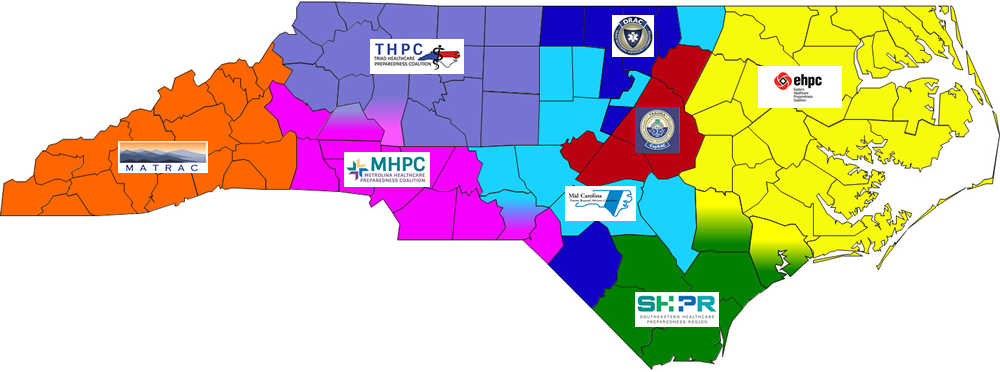
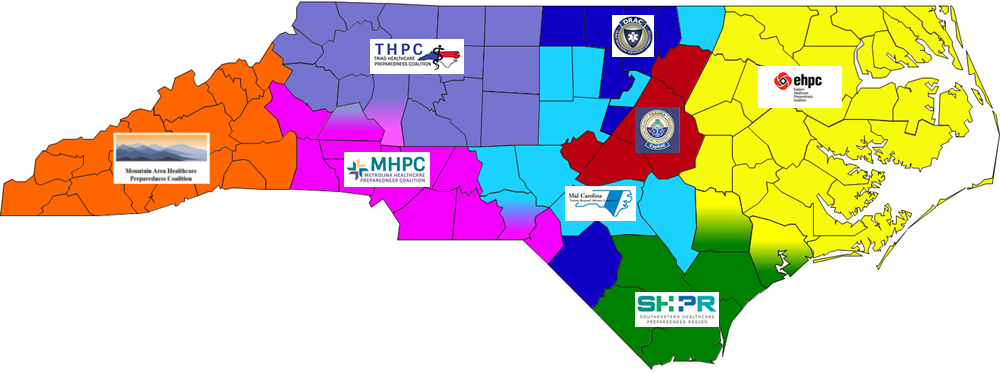
changing matrac to mahpc

Changed region(s): [[0.093, 0.3548, 0.217, 0.5027]]

diff --git a/template-parts/content-index.php b/template-parts/content-index.php
@@ -72,8 +72,8 @@
                     <h2 class="color1">
                         <a class="mactrac" href="http://www.matrac.com/" target="_blank">
                             <div class="color-box color1b"></div>
-                            <div class="co-logo"><img src="<?php echo get_template_directory_uri(); ?>/images/matrac.png"/></div>
-                            <div class="down">Mountain Area Trauma RAC (Mission Hospitals)</div>
+                            <div class="co-logo"><img src="<?php echo get_template_directory_uri(); ?>/images/mahpc.jpg"/></div>
+                            <div class="down">Mountain Area Healthcare Preparedness Coalition (MAHPC)</div>
                         </a>
                     </h2>
                 </li>

diff --git a/template-parts/content-map.php b/template-parts/content-map.php
@@ -62,8 +62,8 @@
                     <h2 class="color1">
                         <a class="mactrac" href="http://www.matrac.com/" target="_blank">
                             <div class="color-box color1b"></div>
-                            <div class="co-logo"><img src="<?php echo get_template_directory_uri(); ?>/images/matrac.png"/></div>
-                            <div class="down">Mountain Area Trauma RAC (Mission Hospitals)</div>
+                            <div class="co-logo"><img src="<?php echo get_template_directory_uri(); ?>/images/mahpc.jpg"/></div>
+                            <div class="down">Mountain Area Healthcare Preparedness Coalition (MAHPC)</div>
                         </a>
                     </h2>
                 </li>
